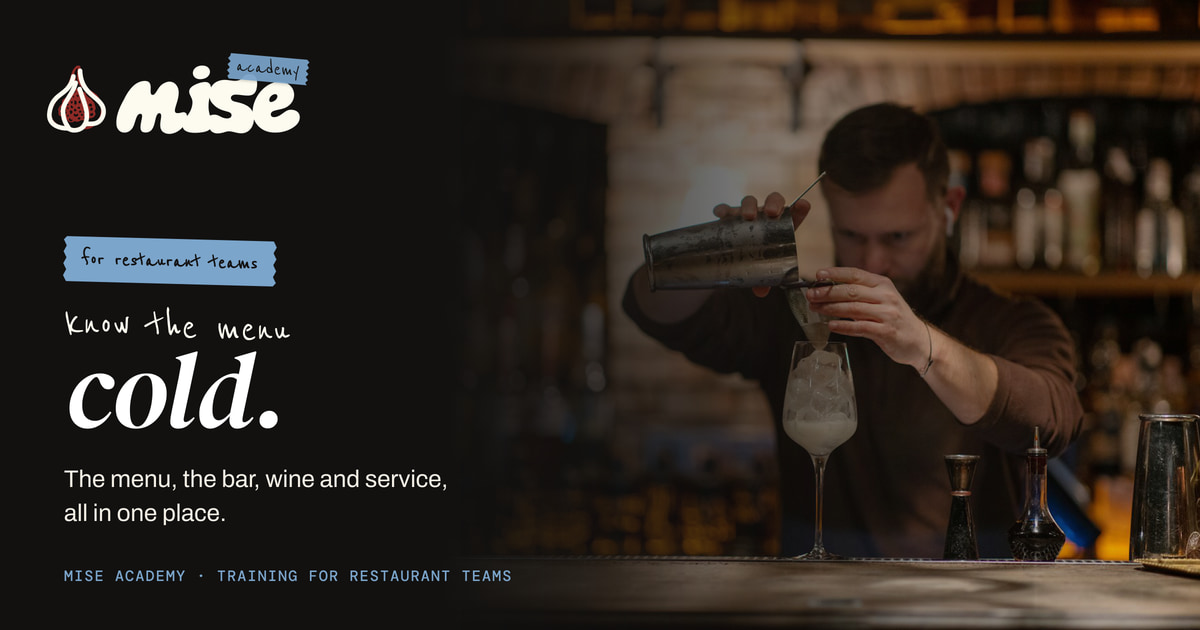
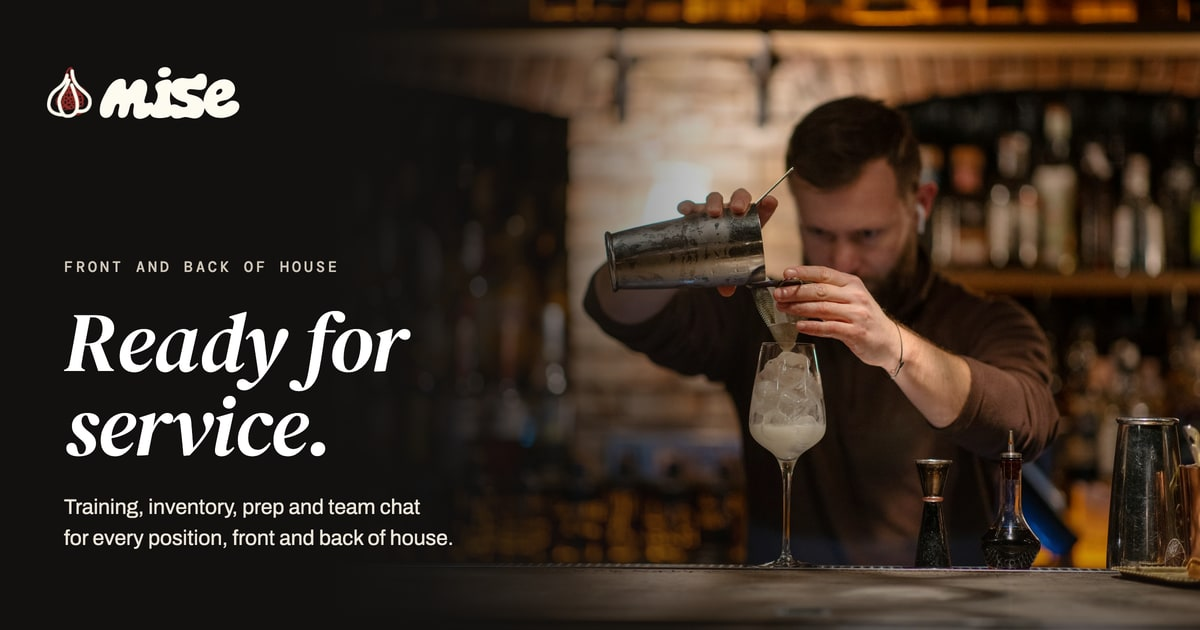
Link cards say the sign-in's words: "Front and back of house", "Ready for service." (Tommy, Nov 24: H8, same language, different style)
The Mise card (public/img/mise-brand/share-card.jpg) still said "Know the menu cold." It's redrawn with the sign-in's
plain mise lockup, label, two-line DM Serif Display Italic title and line, on the same bartender photo, by
scripts/share-card/render.mjs (headless Chrome at 2x). Its alt text in index.html and the server's card tags follow.
Your Look's link card (the preview and the card drawn on Apply to Every Store) says the same words in each look's own
label, title and body faces and casing, in on-dark colours checked against the card's dark (7:1). The Baldwin's card is
account content: redrawn from its private master with the same script and put on the volume, not in this repo.

diff --git a/src/admin/yourlook.tsx b/src/admin/yourlook.tsx
@@ -16,7 +16,7 @@ import { useSession } from '../lib/session';
 import { brandTitle, color, fontCss, registerLook, lookTheme, themeFromSpec, cropFill, type Brand, type Theme } from '../lib/theme';
 import { COLOR_ROLES, type LookSpec, type LookColors, type PairResult, type Fix } from '../lib/lookspec.ts';
 import { ErrorNote, Loading } from './ui';
-import { paint, ReadyWords } from '../components/AuthCard';
+import { cardInk, paint, READY_LINE, readyCase, ReadyWords } from '../components/AuthCard';
 
 /* ── Data from the server ──────────────────────────────────────────────────────────────────────────────────────────── */
 type Access = 'full' | 'try' | 'upgrade' | 'none';
@@ -632,8 +632,11 @@ function CardPreview({ t, spec }: { t: Theme; spec: LookSpec }) {
   return <Scaled w={1200} h={630} className="yl-frame"><CardArt t={t} spec={spec} /></Scaled>;
 }
 /** The link card, 1200 × 630: the same drawing the canvas makes for the real card (uploadCard). */
+/** The title's weight in the link card: the look's own (Mise's DM Serif Display has one weight), else bold. */
+const titleWeight = (t: Theme) => ({ Regular: 400, Italic: 400, Medium: 500, SemiBold: 600, Bold: 700, ExtraBold: 800 } as Record<string, number>)[t.type.pageTitle.fs || ''] || 700;
 function CardArt({ t, spec }: { t: Theme; spec: LookSpec }) {
   const head = t.type.pageTitle;
+  const ink = cardInk(t);
   const L = spec.logo.dark || spec.logo.light;
   return (
     <div className="yl-lc" style={{ background: color(t, 'inverse'), fontFamily: fontCss(t.type.body.ff) }}>
@@ -641,9 +644,11 @@ function CardArt({ t, spec }: { t: Theme; spec: LookSpec }) {
       <div className="yl-lc-fade" style={{ background: `linear-gradient(90deg, ${color(t, 'inverse')} 0%, ${color(t, 'inverse')} 42%, transparent 75%)` }} />
       <div className="yl-lc-copy">
         {L && <div style={!spec.logo.dark ? { background: spec.colors.card, padding: 8, borderRadius: 8, display: 'inline-block' } : undefined}><Art l={L} h={96} /></div>}
-        <p className="yl-lc-script" style={{ fontFamily: fontCss(t.type.accent.ff), color: color(t, 'accentOnDark') }}>the training app</p>
-        <p className="yl-lc-head" style={{ fontFamily: fontCss(head.ff), color: color(t, 'onInverse'), textTransform: head.case === 'upper' ? 'uppercase' : undefined, letterSpacing: head.ls ? `${parseFloat(head.ls) / 100}em` : undefined }}>{brandTitle('Know the menu cold.', t)}</p>
-        <p className="yl-lc-line" style={{ color: color(t, 'onInverseMuted') }}>The menu, the bar, wine and service, all in one place.</p>
+        {/* Nov 25: the sign-in's words (H8, Tommy Nov 24), in this look's label, title and body faces */}
+        <p className="yl-lc-label" style={{ fontFamily: fontCss(t.type.label.ff), color: ink.label }}>Front and back of house</p>
+        <p className="yl-lc-head" style={{ fontFamily: fontCss(head.ff), fontStyle: (head.fs || '').includes('Italic') ? 'italic' : undefined, fontWeight: titleWeight(t), color: ink.title, letterSpacing: head.ls ? `${parseFloat(head.ls) / 100}em` : undefined }}>
+          <span className="sr-only">Ready for service.</span><span aria-hidden="true">{readyCase('Ready for', t)}<br />{readyCase('service.', t)}</span></p>
+        <p className="yl-lc-line" style={{ color: ink.line }}>{READY_LINE[0]}<br />{READY_LINE[1]}</p>
         <p className="yl-lc-mise" style={{ color: color(t, 'accentOnDark') }}>TRAINING ON <img src="/img/mise-brand/mise-dark.svg" alt="Mise" /></p>
       </div>
     </div>
@@ -656,7 +661,9 @@ async function uploadCard(id: string, t: Theme, spec: LookSpec) {
   const g = cv.getContext('2d')!;
   const img = (src: string) => new Promise<HTMLImageElement>((res, rej) => { const i = new Image(); i.onload = () => res(i); i.onerror = rej; i.src = src; });
   const head = t.type.pageTitle;
-  await Promise.all([`700 64px ${fontCss(head.ff)}`, `400 40px ${fontCss(t.type.accent.ff)}`, `400 22px ${fontCss(t.type.body.ff)}`].map((f) => document.fonts.load(f).catch(() => {})));
+  const ink = cardInk(t);
+  const titleFont = (px: number) => `${(head.fs || '').includes('Italic') ? 'italic ' : ''}${titleWeight(t)} ${px}px ${fontCss(head.ff)}`;
+  await Promise.all([titleFont(64), `700 15px ${fontCss(t.type.label.ff)}`, `400 22px ${fontCss(t.type.body.ff)}`].map((f) => document.fonts.load(f).catch(() => {})));
   g.fillStyle = color(t, 'inverse'); g.fillRect(0, 0, W, H);
   if (spec.photo) {
     const p = await img(spec.photo);
@@ -675,12 +682,20 @@ async function uploadCard(id: string, t: Theme, spec: LookSpec) {
     g.drawImage(i, x0, y0, w0, h0, 80, y, w0 * k, h0 * k);
     y += h0 * k + 70;
   }
-  g.fillStyle = color(t, 'accentOnDark'); g.font = `400 40px ${fontCss(t.type.accent.ff)}`; g.fillText('the training app', 80, y); y += 70;
-  g.fillStyle = color(t, 'onInverse'); g.font = `700 64px ${fontCss(head.ff)}`;
-  const words = brandTitle('Know the menu cold.', t);
-  const lines = head.case === 'upper' ? ['KNOW THE', 'MENU COLD.'] : ['Know the', 'menu cold.'];
-  if (g.measureText(words).width < 560) { g.fillText(words, 80, y); y += 72; } else for (const l of lines) { g.fillText(l, 80, y); y += 70; }
-  g.fillStyle = color(t, 'onInverseMuted', 0); g.font = `400 22px ${fontCss(t.type.body.ff)}`; g.fillText('The menu, the bar, wine and service, all in one place.', 80, y + 10);
+  // Nov 25: the sign-in's words (H8, Tommy Nov 24: "Same language, different style"): label, two-line title, the line
+  const spaced = g as CanvasRenderingContext2D & { letterSpacing?: string };
+  y -= 24;
+  g.fillStyle = ink.label; g.font = `700 15px ${fontCss(t.type.label.ff)}`; spaced.letterSpacing = '2.4px';
+  g.fillText('FRONT AND BACK OF HOUSE', 80, y); spaced.letterSpacing = '0px'; y += 22;
+  const lines = [readyCase('Ready for', t), readyCase('service.', t)];
+  let px = 64; g.font = titleFont(px);
+  const widest = Math.max(...lines.map((l) => g.measureText(l).width));
+  if (widest > 560) { px = Math.floor(px * 560 / widest); g.font = titleFont(px); } // a wide face steps down to fit
+  g.fillStyle = ink.title;
+  for (const l of lines) { y += Math.round(px * 1.05); g.fillText(l, 80, y); }
+  g.fillStyle = ink.line; g.font = `400 22px ${fontCss(t.type.body.ff)}`;
+  y += 22;
+  for (const l of READY_LINE) { y += 30; g.fillText(l, 80, y); }
   g.fillStyle = color(t, 'accentOnDark'); g.font = `600 16px ${fontCss(t.type.body.ff)}`; g.fillText('TRAINING ON MISE ACADEMY', 80, H - 64);
   const blob = await new Promise<Blob | null>((r) => cv.toBlob(r, 'image/jpeg', 0.9));
   if (!blob) return;

diff --git a/src/components/AuthCard.tsx b/src/components/AuthCard.tsx
@@ -24,7 +24,16 @@ const tracking = (s: TypeSpec) => (s.ls ? `${parseFloat(s.ls) / 100}em` : '0');
 /** The first of a look's on-dark colours with at least `min`:1 on Char (#121110, the gradient's black), else white. */
 const lightest = (t: Theme, roles: ColorRole[], min: number) => roles.map((r) => color(t, r)).find((c) => ratio(c, '#121110') >= min) ?? '#FFFFFF';
 /** H8's title in the look's casing: capitals for a look whose titles are capitals, else as written ("Ready for service."). */
-const readyCase = (s: string, t: Theme) => (t.type.pageTitle.case === 'upper' ? s.toUpperCase() : s);
+export const readyCase = (s: string, t: Theme) => (t.type.pageTitle.case === 'upper' ? s.toUpperCase() : s);
+/** The sign-in's line under the title (also the link card's, Nov 25). */
+export const READY_LINE = ['Training, inventory, prep and team chat', 'for every position, front and back of house.'] as const;
+/** Nov 25: the link card's words (Your Look's card) in the look's own on-dark colours, light enough on its dark card
+ *  colour (the card's photo fades in behind the words' right end, so the same margins as the sign-in's title card). */
+export function cardInk(t: Theme) {
+  const bg = color(t, 'inverse');
+  const pick = (roles: ColorRole[], min: number) => roles.map((r) => color(t, r)).find((c) => ratio(c, bg) >= min) ?? '#FFFFFF';
+  return { label: pick(['onInverseMuted', 'onInverse'], 7), title: pick(['onInverse'], 7), line: pick(['onInverseMuted', 'onInverse'], 7) };
+}
 
 /** The brand's roles as CSS variables on this screen only, so the card never mixes two brands' paint. */
 export function paint(t: Theme): CSSProperties {
@@ -86,7 +95,7 @@ export function ReadyWords({ t }: { t: Theme }) {
     <div className={t.signIn ? 'si-ready si-ready-mise' : 'si-ready'}>
       <p className="si-ready-label">Front and back of house</p>
       <p className="si-ready-title" ref={ref}><span className="sr-only">Ready for service.</span><span aria-hidden="true">{readyCase('Ready for', t)}<br />{readyCase('service.', t)}</span></p>
-      <p className="si-ready-line">Training, inventory, prep and team chat <br />for every position, front and back of house.</p>
+      <p className="si-ready-line">{READY_LINE[0]} <br />{READY_LINE[1]}</p>
     </div>
   );
 }

diff --git a/index.html b/index.html
@@ -24,12 +24,12 @@
     <meta property="og:image:type" content="image/jpeg" />
     <meta property="og:image:width" content="1200" />
     <meta property="og:image:height" content="630" />
-    <meta property="og:image:alt" content="Mise Academy: know the menu cold. A bartender pouring a cocktail." />
+    <meta property="og:image:alt" content="Mise: ready for service, front and back of house. A bartender pouring a cocktail." />
     <meta name="twitter:card" content="summary_large_image" />
     <meta name="twitter:title" content="Mise Academy" />
     <meta name="twitter:description" content="The menu, the bar, wine and service, all in one place." />
     <meta name="twitter:image" content="https://www.miseacademy.app/img/mise-brand/share-card.jpg" />
-    <meta name="twitter:image:alt" content="Mise Academy: know the menu cold. A bartender pouring a cocktail." />
+    <meta name="twitter:image:alt" content="Mise: ready for service, front and back of house. A bartender pouring a cocktail." />
     <!-- share:end -->
     <link rel="preconnect" href="https://fonts.googleapis.com" />
     <link rel="preconnect" href="https://fonts.gstatic.com" crossorigin />

diff --git a/src/styles.css b/src/styles.css
@@ -4632,9 +4632,10 @@ body.eip-lock .em-bar.floating, body.menu-lock .em-bar.floating { display: none;
 .yl-lc-fade { position: absolute; inset: 0; }
 .yl-lc-copy { position: absolute; left: 80px; top: 84px; width: 560px; display: flex; flex-direction: column; gap: 14px; }
 .yl-lc-copy .yl-art { width: 300px; }
-.yl-lc-script { margin: 24px 0 0; font-size: 40px; }
-.yl-lc-head { margin: 0; font-size: 64px; line-height: 1.05; font-weight: 700; }
-.yl-lc-line { margin: 0; font-size: 22px; }
+/* Nov 25: the sign-in's words (H8) on the card: label, two-line title, the line */
+.yl-lc-label { margin: 0; font-size: 15px; line-height: 18px; font-weight: 700; letter-spacing: .16em; text-transform: uppercase; }
+.yl-lc-head { margin: 0; font-size: 64px; line-height: 1.05; white-space: nowrap; }
+.yl-lc-line { margin: 0; font-size: 22px; line-height: 30px; }
 .yl-lc-mise { margin: 18px 0 0; font-size: 16px; font-weight: 600; letter-spacing: .16em; display: flex; align-items: center; gap: 10px; }
 .yl-lc-mise img { height: 22px; }
 .yl-ba { margin: 0; display: flex; flex-direction: column; gap: 8px; }

diff --git a/src/lib/theme.ts b/src/lib/theme.ts
@@ -129,7 +129,7 @@ export type Theme = {
   hero?: { src: string; alt: string; crop: Crop };
   /** Nov 24 (Figma 09 · Idea Board, section 51, "H8 · Ready for service.", 1025:4310 / 1027:4434; Tommy picked it): the
    *  sign-in photo side's title card and the plain logo above it (Mise: the mise lockup, not Mise Academy; Tommy: "Academy
-   *  is a feature"). Unset: the brand's accent line and "Know the menu cold." (every custom look, unchanged). */
+   *  is a feature"). Unset: its mark, with the same H8 words (every custom look). */
   signIn?: { logo: { src: string; alt: string } };
   /** The tab and home-screen icon (Nov 17): /icons/<icon>-<size>.png. Unset: The Baldwin's way (its store's own icon, or
    *  the store's initial). */
